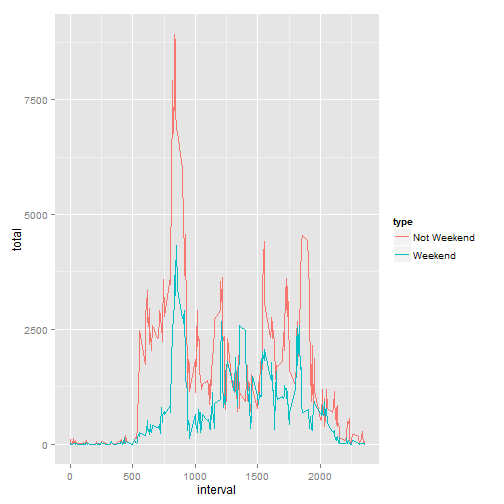
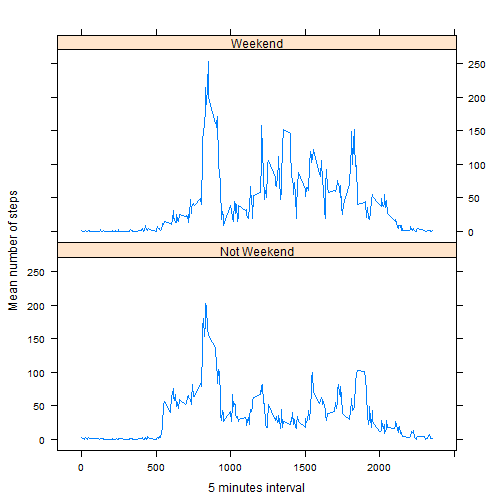
Final version

diff --git a/PA1_template.html b/PA1_template.html
@@ -259,17 +259,7 @@ rm(tempCSV)
 
 <pre><code class="r">#We will use lubridate library
 library(lubridate)
-</code></pre>
-
-<pre><code>## 
-## Attaching package: &#39;lubridate&#39;
-## 
-## The following object is masked _by_ &#39;.GlobalEnv&#39;:
-## 
-##     second
-</code></pre>
-
-<pre><code class="r">#We will store the dataframe with in a new variable ProcessedData and alwways will keep our original data in the RawData variable
+#We will store the dataframe with in a new variable ProcessedData and alwways will keep our original data in the RawData variable
 ProcessedData &lt;- RawData
 ProcessedData$date &lt;- ymd(ProcessedData$date)
 #Let&#39;s check our result
@@ -289,25 +279,7 @@ First of all we will create a new data frame named StepsXday where we will store
 
 <pre><code class="r"># Load the dplyr library
 library(dplyr)
-</code></pre>
-
-<pre><code>## 
-## Attaching package: &#39;dplyr&#39;
-## 
-## The following objects are masked from &#39;package:lubridate&#39;:
-## 
-##     intersect, setdiff, union
-## 
-## The following objects are masked from &#39;package:stats&#39;:
-## 
-##     filter, lag
-## 
-## The following objects are masked from &#39;package:base&#39;:
-## 
-##     intersect, setdiff, setequal, union
-</code></pre>
-
-<pre><code class="r"># Summarize the totl number of steps per day in the StepsXday variable 
+# Summarize the total number of steps per day in the StepsXday variable 
 StepsXday&lt;- ProcessedData %&gt;% group_by(date) %&gt;% summarise(total=sum(steps,na.rm=TRUE))
 # Calculate the mean of total steps per day
 mean(StepsXday$total)
@@ -470,16 +442,16 @@ median(StepsXdayComplete$total)-median(StepsXday$total)
 <p>For this analysis we will use the ggplot2 package. First we will create a new data frame named StepsXintervalCompleteData where we will summarize the mean number of steps per interval and add a new column which indicates if the observation coresponds to a weekday or weekend.  </p>
 
 <pre><code class="r"># Create variable StepsXintervalCompleteData which will summarize the mean number of steps by interval for weekend and weekdays
-StepsXintervalCompleteData &lt;- CompleteData %&gt;% mutate(type = ifelse(wday(date) %in% c(6,7),&quot;Weekend&quot;,&quot;Not Weekend&quot;))  %&gt;% group_by(interval,type) %&gt;% summarise(total=sum(steps))
-# Load the library ggplot2
-library(ggplot2)
-# Plot the comparative plot 
-qplot(interval, total, data=StepsXintervalCompleteData, colour=type, geom=&quot;line&quot;)
+StepsXintervalCompleteData &lt;- CompleteData %&gt;% mutate(type = ifelse(wday(date) %in% c(6,7),&quot;Weekend&quot;,&quot;Not Weekend&quot;))  %&gt;% group_by(interval,type) %&gt;% summarise(total=mean(steps))
+
+# Load the library lattice
+library(lattice)
+xyplot(StepsXintervalCompleteData$total ~ StepsXintervalCompleteData$interval |StepsXintervalCompleteData$type, layout = c(1,2), type = &quot;l&quot;, ylab = &quot;Mean number of steps&quot;, xlab = &quot;5 minutes interval&quot;)
 </code></pre>
 
[2 lines of base64/hex data omitted]
 
-<p>From the last plot we can conclude that our subject is doing less steps during the weekends. The patterns seem to be similar for the most of the intervals.</p>
+<p>From the last plot we can conclude that our subject is doing less steps during the morning in weekend, but overall does more movement during the day in weekend than in the weekdays. Probably the subject has a sedentary job.</p>
 
 </body>
 

diff --git a/PA1_template.md b/PA1_template.md
@@ -64,18 +64,6 @@ We observe that their are NA values in steps variable but as indicated in the as
 ```r
 #We will use lubridate library
 library(lubridate)
-```
-
-```
-## 
-## Attaching package: 'lubridate'
-## 
-## The following object is masked _by_ '.GlobalEnv':
-## 
-##     second
-```
-
-```r
 #We will store the dataframe with in a new variable ProcessedData and alwways will keep our original data in the RawData variable
 ProcessedData <- RawData
 ProcessedData$date <- ymd(ProcessedData$date)
@@ -97,27 +85,7 @@ First of all we will create a new data frame named StepsXday where we will store
 ```r
 # Load the dplyr library
 library(dplyr)
-```
-
-```
-## 
-## Attaching package: 'dplyr'
-## 
-## The following objects are masked from 'package:lubridate':
-## 
-##     intersect, setdiff, union
-## 
-## The following objects are masked from 'package:stats':
-## 
-##     filter, lag
-## 
-## The following objects are masked from 'package:base':
-## 
-##     intersect, setdiff, setequal, union
-```
-
-```r
-# Summarize the totl number of steps per day in the StepsXday variable 
+# Summarize the total number of steps per day in the StepsXday variable 
 StepsXday<- ProcessedData %>% group_by(date) %>% summarise(total=sum(steps,na.rm=TRUE))
 # Calculate the mean of total steps per day
 mean(StepsXday$total)
@@ -320,13 +288,13 @@ For this analysis we will use the ggplot2 package. First we will create a new da
 
 ```r
 # Create variable StepsXintervalCompleteData which will summarize the mean number of steps by interval for weekend and weekdays
-StepsXintervalCompleteData <- CompleteData %>% mutate(type = ifelse(wday(date) %in% c(6,7),"Weekend","Not Weekend"))  %>% group_by(interval,type) %>% summarise(total=sum(steps))
-# Load the library ggplot2
-library(ggplot2)
-# Plot the comparative plot 
-qplot(interval, total, data=StepsXintervalCompleteData, colour=type, geom="line")
+StepsXintervalCompleteData <- CompleteData %>% mutate(type = ifelse(wday(date) %in% c(6,7),"Weekend","Not Weekend"))  %>% group_by(interval,type) %>% summarise(total=mean(steps))
+
+# Load the library lattice
+library(lattice)
+xyplot(StepsXintervalCompleteData$total ~ StepsXintervalCompleteData$interval |StepsXintervalCompleteData$type, layout = c(1,2), type = "l", ylab = "Mean number of steps", xlab = "5 minutes interval")
 ```
 
 ![plot of chunk unnamed-chunk-13](figure/unnamed-chunk-13-1.png) 
   
-From the last plot we can conclude that our subject is doing less steps during the weekends. The patterns seem to be similar for the most of the intervals.
+From the last plot we can conclude that our subject is doing less steps during the morning in weekend, but overall does more movement during the day in weekend than in the weekdays. Probably the subject has a sedentary job.
